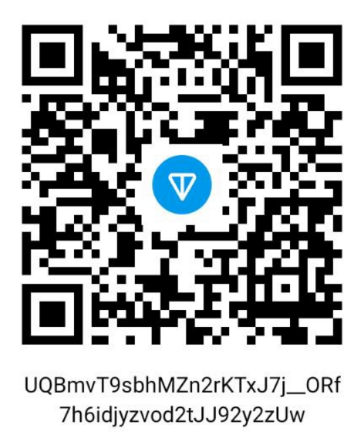
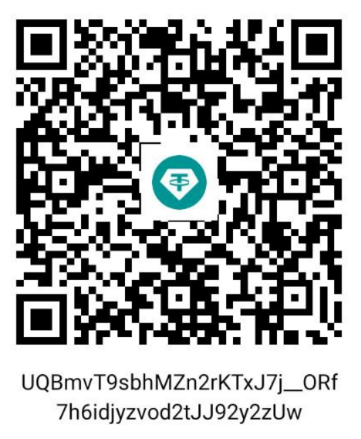
рефакторинг

diff --git a/src/main/java/ru/robinhood/TelegramBotRobinHoodCapital/command/impl/DepositCommand.java b/src/main/java/ru/robinhood/TelegramBotRobinHoodCapital/command/impl/DepositCommand.java
@@ -67,7 +67,7 @@ public class DepositCommand implements Command {
                 
                 Код для пополнения баланса - %s
                 
-                ⚠Перевод делайте в USDT⚠
+                ⚠Перевод делайте в USDT в сети TON⚠
                 ⚠Платеж должен быть от 100$! Иначе баланс не будет пополнен!⚠
                 
                 Переведите деньги на этот кошелек и в комментарии к платежу укажите код, который указан выше.

diff --git a/src/main/java/ru/robinhood/TelegramBotRobinHoodCapital/command/CommandHandler.java b/src/main/java/ru/robinhood/TelegramBotRobinHoodCapital/command/CommandHandler.java
@@ -213,7 +213,7 @@ public class CommandHandler {
 
             robbinHoodTelegramBot.editMessage(
                     message,
-                    "💰 <b>Настройка кошелька</b> 💰\n\nОтправьте ссылку на ваш кошелек.",
+                    "💰 <b>Настройка кошелька</b> 💰\n\nОтправьте ссылку на ваш кошелек. Указывайте кошелек USDT в сети TON.",
                     inlineKeyboardInitializer.initGoBackSettingWallet()
             );
 
